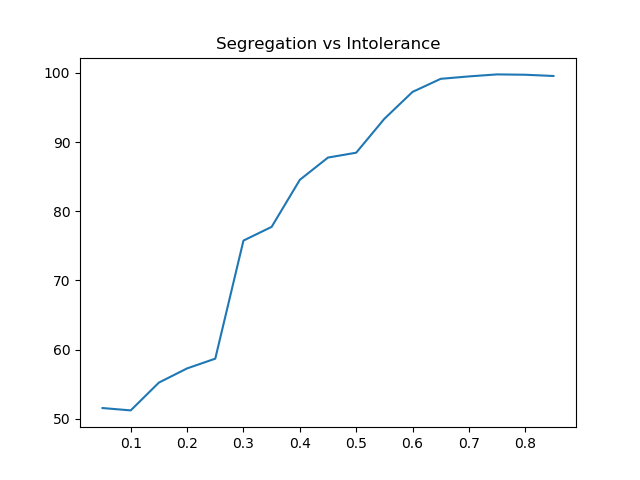
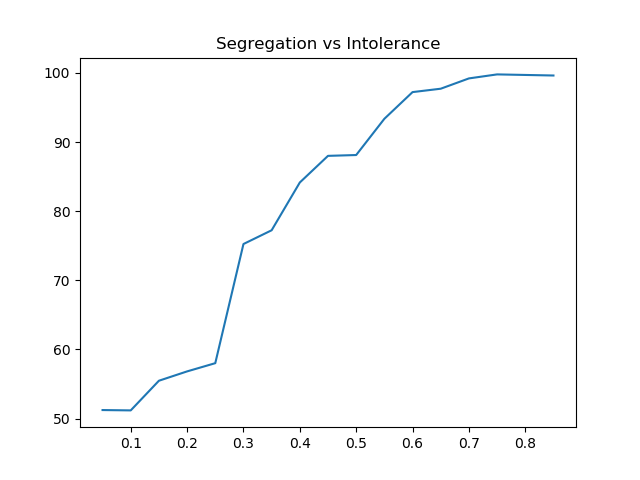
updated README and plots

diff --git a/schell/plot.py b/schell/plot.py
@@ -27,8 +27,8 @@ plt.savefig('plot/total_time_plot.png')
 plt.show()
 
 intolerance = [0.05 * i for i in range(1, 18)]
-segregation = [51.55, 51.21, 55.23, 57.28, 58.69, 75.76, 77.74, 84.54, 87.76,
-               88.46, 93.36, 97.25, 99.14, 99.49, 99.78, 99.73, 99.55]
+segregation = [51.24, 51.19, 55.48, 56.83, 58.02, 75.25, 77.24, 84.15, 88.00,
+               88.12, 93.36, 97.22, 97.71, 99.20, 99.78, 99.70, 99.62]
 plt.plot(intolerance, segregation)
 plt.title('Segregation vs Intolerance')
 plt.savefig('plot/segregation_plot.png')
